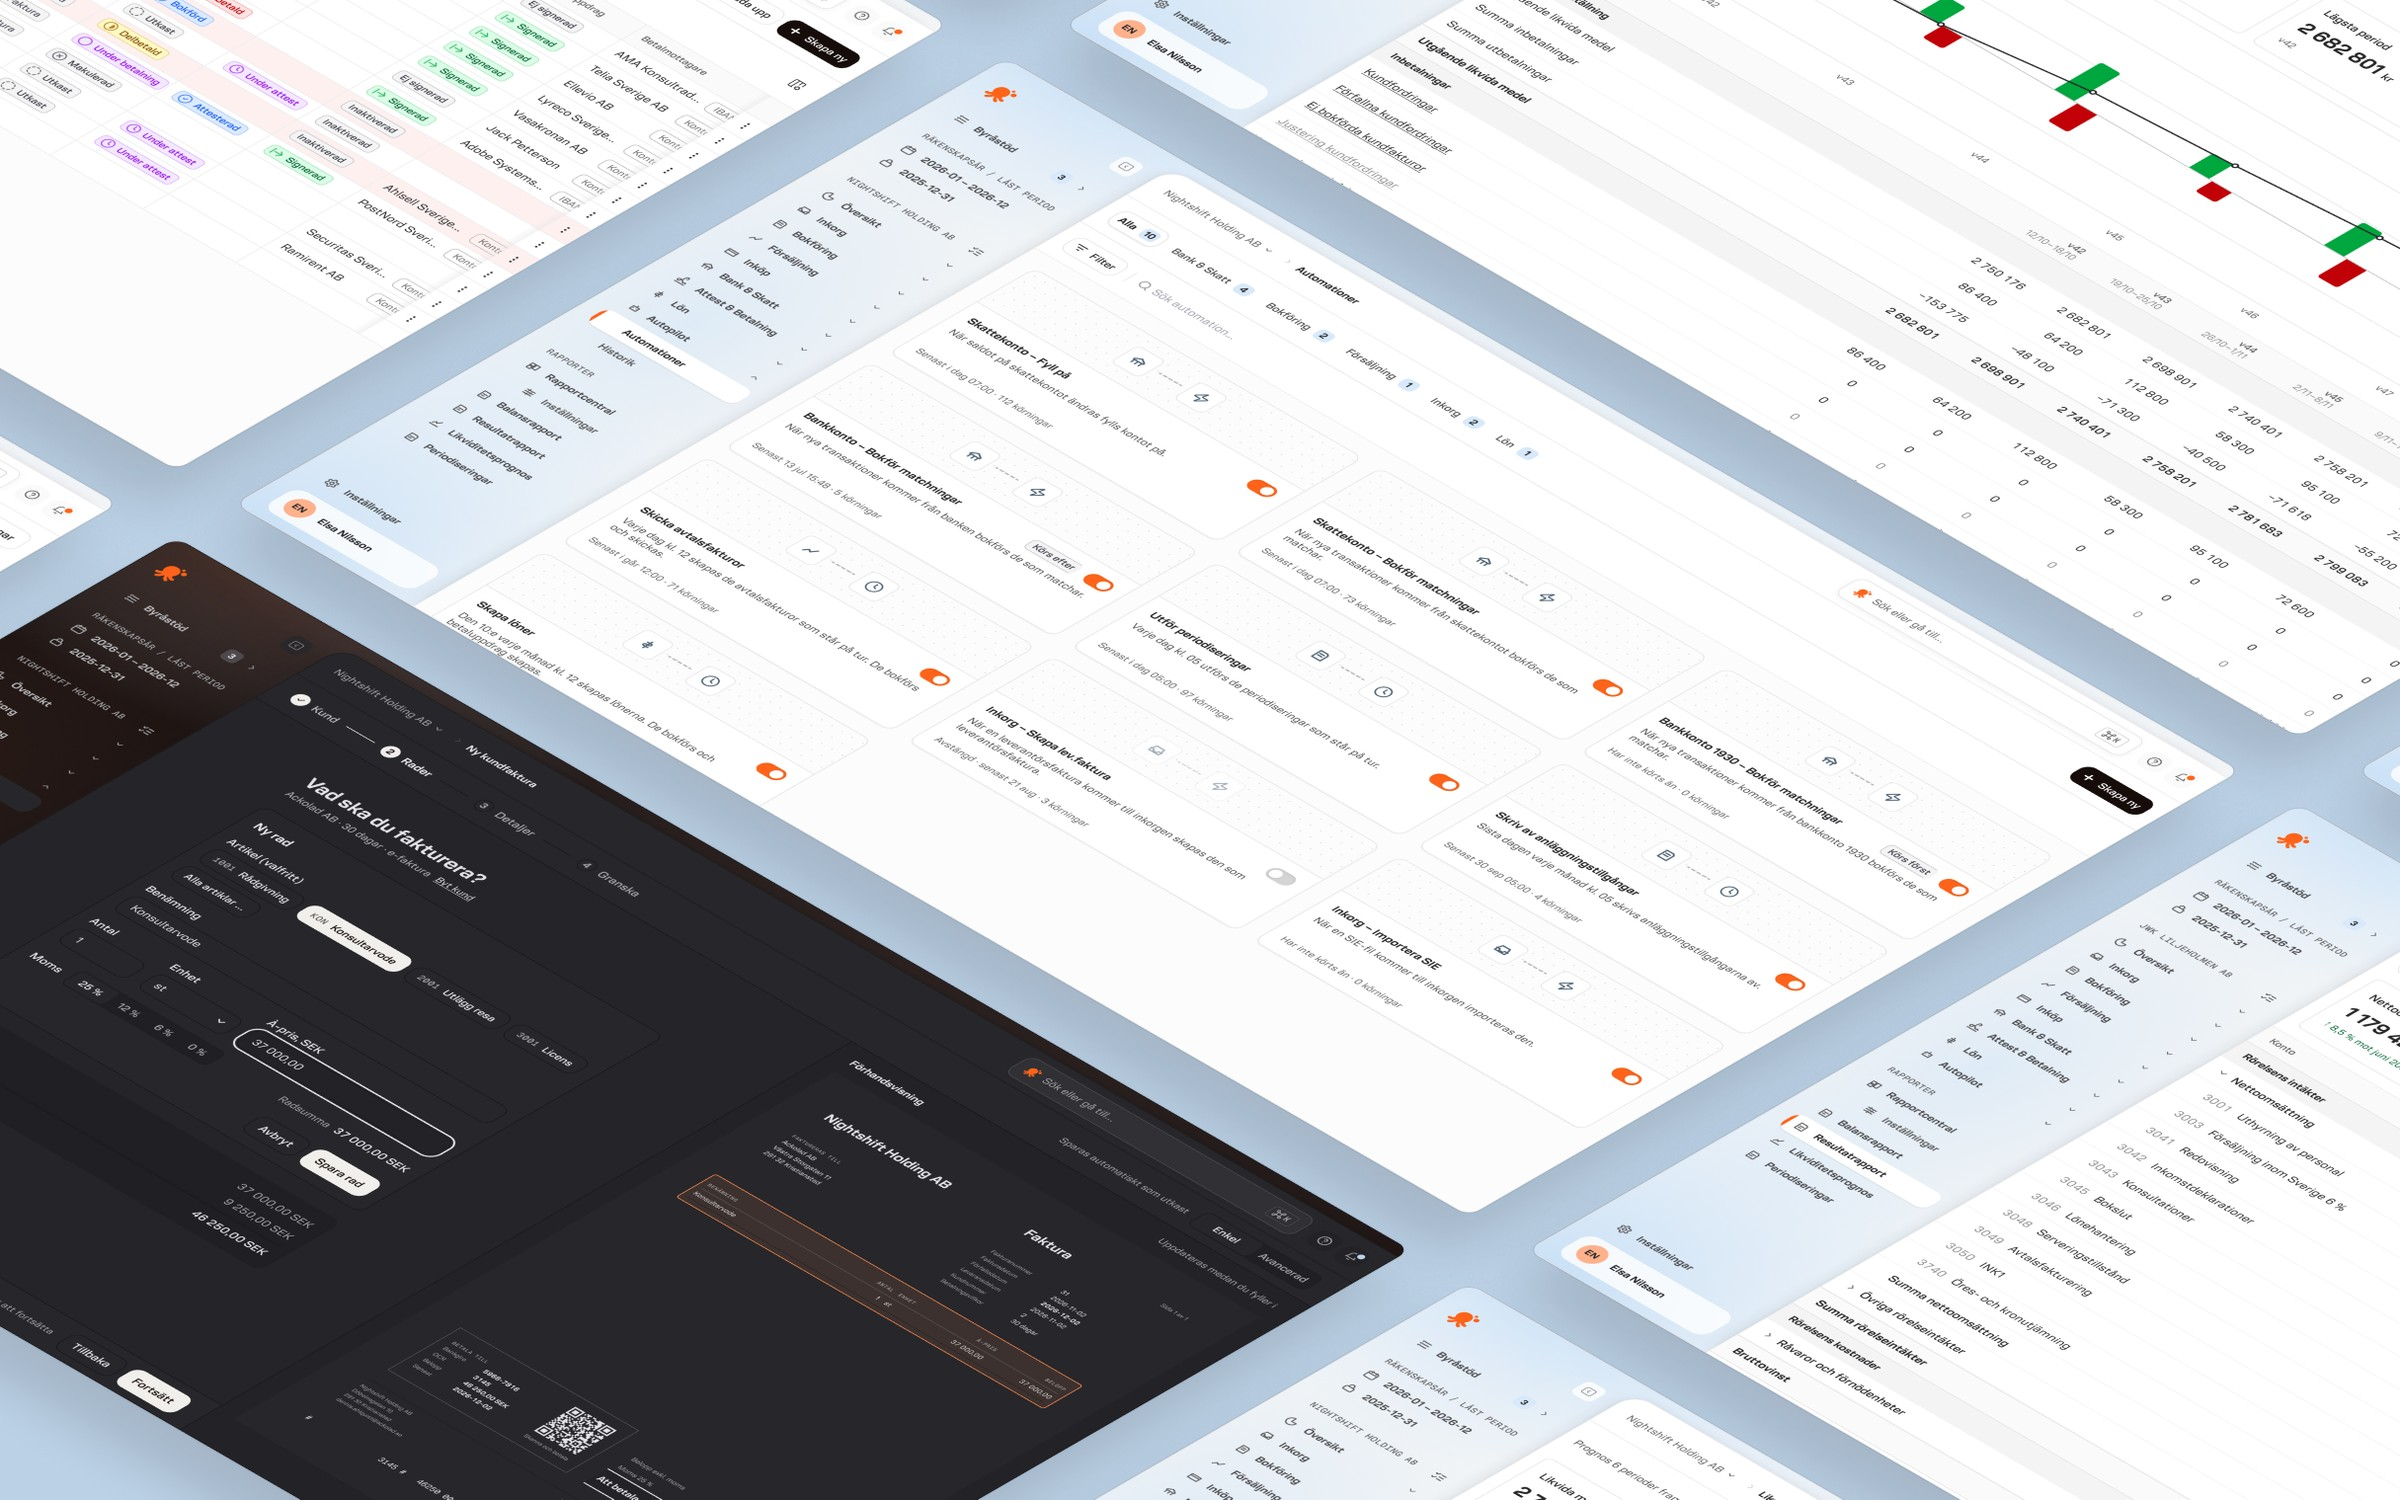
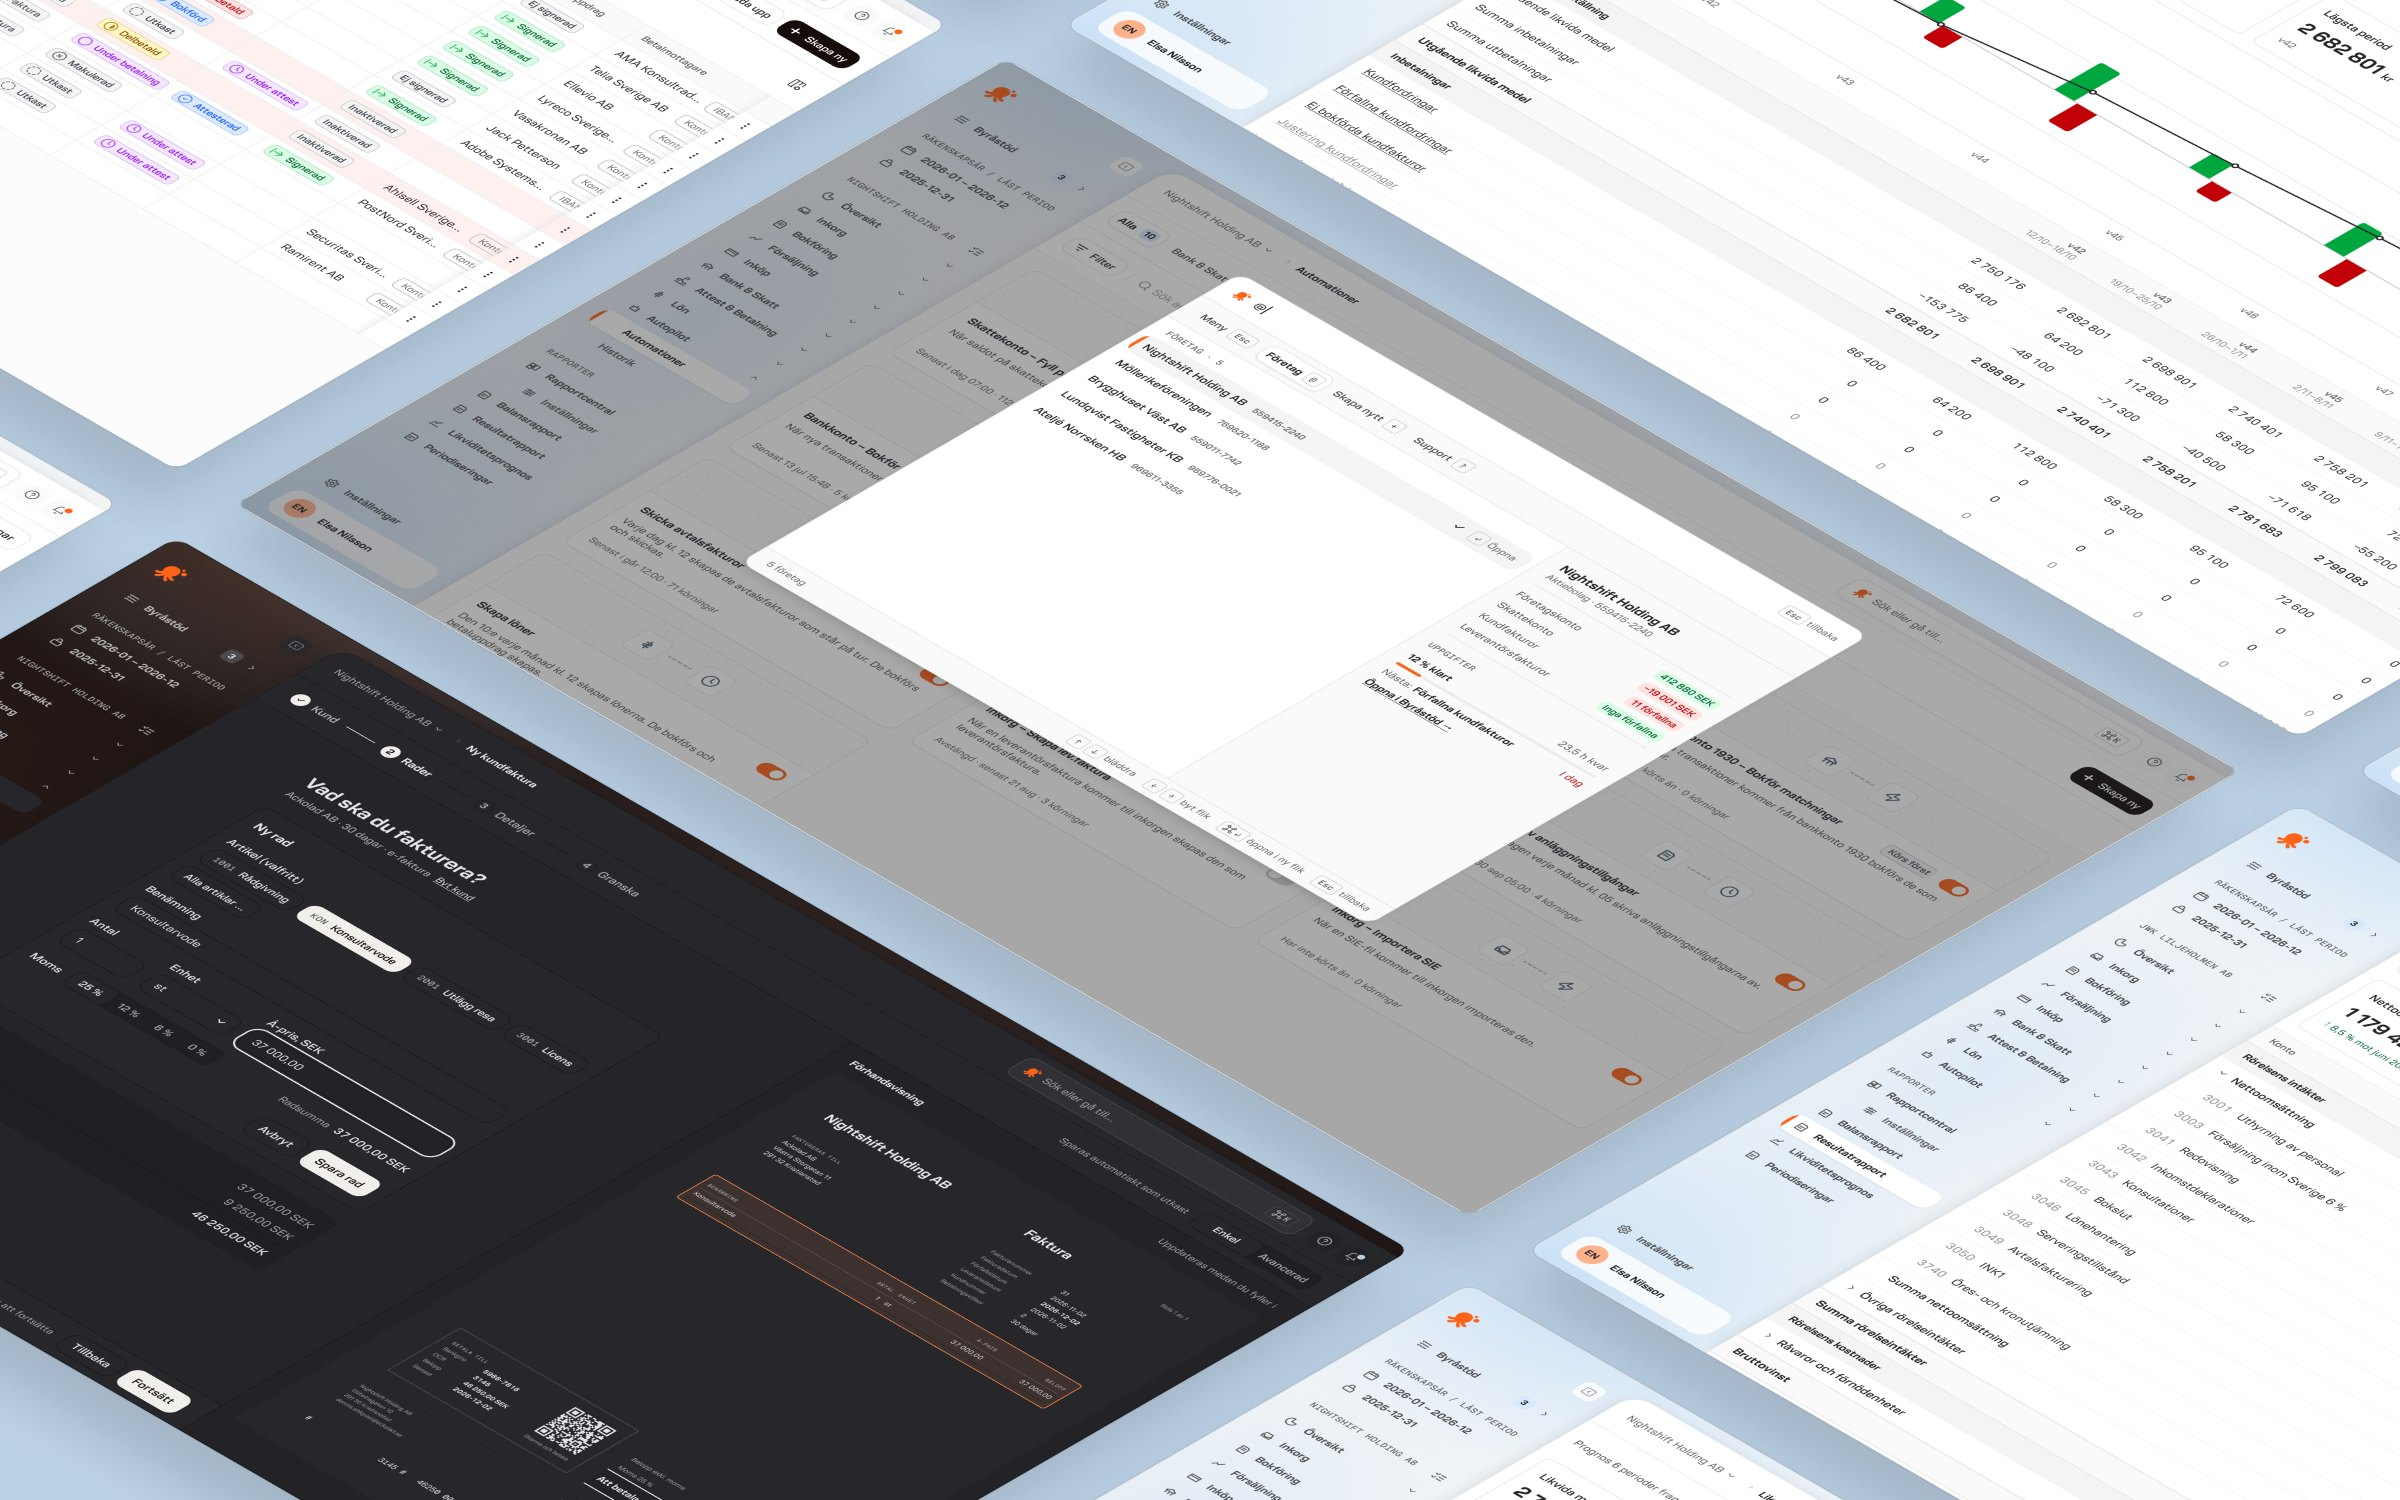
Oqto case: command centre in the middle of the isometric image
Claude-Session: https://claude.ai/code/session_01T8AAM769pNUjzneeyTgJVR

diff --git a/docs/oqto/index.html b/docs/oqto/index.html
@@ -113,7 +113,7 @@
 <p class="c-step-text">I redesigned a selection of screens chosen to cover as much of the product as possible, and reworked the flows that needed bigger changes. Below is the same screen before and after the redesign.</p>
 </div>
 </div>
-<div data-px="1" data-rv="6" data-lb="1" tabindex="0" role="button" aria-label="Enlarge image" class="rv c-clip"><img class="zm px" src="../assets/oqto-screens-1400.webp?v=49afa691" srcset="../assets/oqto-screens-800.webp?v=08709ecb 800w, ../assets/oqto-screens-1400.webp?v=49afa691 1400w, ../assets/oqto-screens.webp?v=e846242b 2400w" sizes="(min-width: 1440px) 1200px, 92vw" data-lbsrc="../assets/oqto-screens.webp?v=e846242b" loading="lazy" decoding="async" alt="Oqto screens in an isometric grid, including automations and a customer invoice in dark mode" width="2400" height="1500"></div>
+<div data-px="1" data-rv="6" data-lb="1" tabindex="0" role="button" aria-label="Enlarge image" class="rv c-clip"><img class="zm px" src="../assets/oqto-screens-1400.webp?v=742c1b4d" srcset="../assets/oqto-screens-800.webp?v=a48a8559 800w, ../assets/oqto-screens-1400.webp?v=742c1b4d 1400w, ../assets/oqto-screens.webp?v=f983bfaa 2400w" sizes="(min-width: 1440px) 1200px, 92vw" data-lbsrc="../assets/oqto-screens.webp?v=f983bfaa" loading="lazy" decoding="async" alt="Oqto screens in an isometric grid, including automations and a customer invoice in dark mode" width="2400" height="1500"></div>
 <div data-rv="5" data-sl="1" class="sl rv">
 <img src="../assets/oqto-after-1400.webp?v=e93d20e2" srcset="../assets/oqto-after-800.webp?v=02f722a6 800w, ../assets/oqto-after-1400.webp?v=e93d20e2 1400w, ../assets/oqto-after.webp?v=5516f302 2400w" sizes="(min-width: 1440px) 1200px, 92vw" data-lbsrc="../assets/oqto-after.webp?v=5516f302" loading="lazy" decoding="async" alt="Supplier invoices after the redesign" width="2400" height="1500" draggable="false">
 <img class="bf" src="../assets/oqto-before-1400.webp?v=eef3b59c" srcset="../assets/oqto-before-800.webp?v=f0b9e688 800w, ../assets/oqto-before-1400.webp?v=eef3b59c 1400w, ../assets/oqto-before.webp?v=911566ef 2400w" sizes="(min-width: 1440px) 1200px, 92vw" data-lbsrc="../assets/oqto-before.webp?v=911566ef" loading="lazy" decoding="async" alt="Supplier invoices before the redesign" width="2400" height="1500" draggable="false">

diff --git a/site/build.py b/site/build.py
@@ -18,7 +18,7 @@ ASSETS = {
     "c4459226de797c4df204a6b0b06ca3d5": "svartanatt.jpg", "fec15f3ac0007fd30fc3f6f249fd448c": "henrik.jpg",
     "aa1eb67f8c8be2493bbfd4aa54762e37": "oqto-type.jpg", "471465112e013b29ffcea0fa0ea3b559": "oqto-components.jpg",
     "c34dd534a3003ee261711ca87890d62c": "oqto-dark.jpg", "b7a1f7ae78d363ddf79c024ff4bfa8f4": "oqto-light.jpg",
-    "c34b591a7f8fddf09f75926bdbe9cb4d": "oqto-screens.jpg", "a67261e7335ce425f5cbf03bea56eee6": "oqto-after.jpg",
+    "c34b591a7f8fddf09f75926bdbe9cb4d": "oqto-screens.jpg", "9aed89d8ef290ab64dbcbde6ca8f4fda": "oqto-screens.jpg", "a67261e7335ce425f5cbf03bea56eee6": "oqto-after.jpg",
     "24c4ba42e7d66d0e7984402ead110cda": "oqto-before.jpg", "a06f2b58758b6fb555fed11e960a2e03": "oqto-app.jpg",
     "637462e7e8cb1a3e784b541fafad197d": "tink-logo.jpg", "6e3a6e0409bc43d9788ccd3c57f38416": "tink-colours.jpg",
     "8ccadca1c7c70a65154867eb4540ba2f": "tink-poster.jpg", "9a65abafdb9345d5e481ffe969c22879": "tink-type.jpg",
